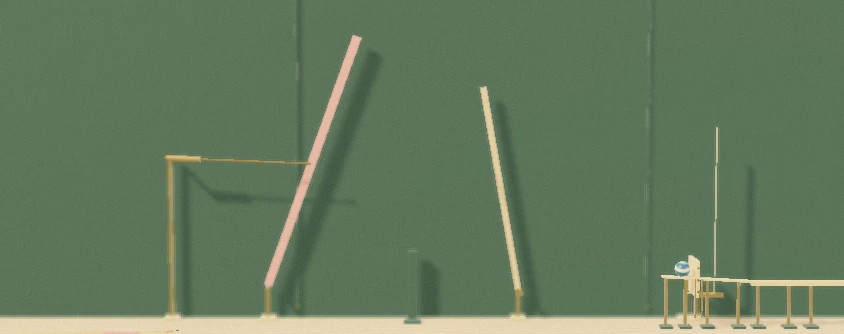
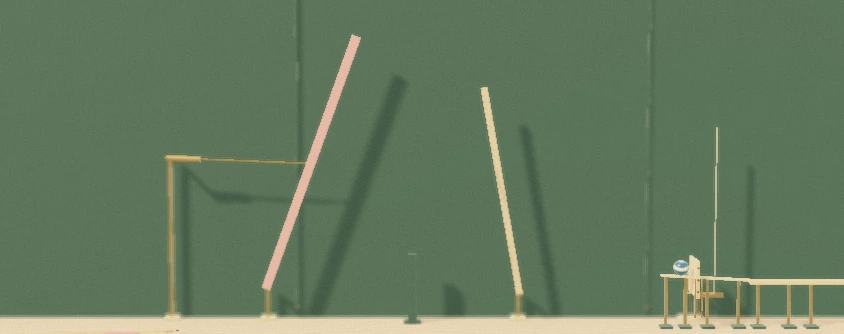
Align Chain Reaction meshes with physical depth

diff --git a/chain-reaction.html b/chain-reaction.html
@@ -8,12 +8,12 @@
 <link rel="stylesheet" href="style.css"><link rel="stylesheet" href="chain-reaction.css?v=0.1.0">
 <script defer src="js/vendor/three-r128.min.js"></script>
 <script defer src="js/chain-reaction-physics.js?v=0.2.0"></script><script defer src="js/chain-reaction-events.js?v=0.1.1"></script>
-<script defer src="js/chain-reaction-materials.js?v=0.1.0"></script><script defer src="js/chain-reaction-renderer.js?v=0.1.2"></script>
+<script defer src="js/chain-reaction-materials.js?v=0.1.0"></script><script defer src="js/chain-reaction-renderer.js?v=0.1.3"></script>
 <script defer src="js/chain-reaction-sound.js?v=0.1.0"></script><script defer src="js/chain-reaction.js?v=0.1.2"></script>
 </head>
 <body>
 <header class="cr-bar"><a href="index.html" class="cr-home">Home</a><span class="cr-caption" id="caption">Chain Reaction</span><button id="about-toggle" aria-expanded="false" aria-controls="about">About</button></header>
-<main class="cr-stage"><canvas id="machine" aria-label="A chain reaction built from maple arms, a hanging tin cup and a wooden wheel." tabindex="0"></canvas><picture class="cr-still" id="still"><source media="(orientation:portrait)" srcset="assets/chain-reaction/stills/portrait.webp?v=0.1.2"><source media="(max-height:600px)" srcset="assets/chain-reaction/stills/landscape.webp?v=0.1.2"><img src="assets/chain-reaction/stills/desktop.webp?v=0.1.2" alt="The armed maple and tin machine on its workbench." loading="eager"></picture><p class="cr-title" id="stage-title">The Long Arm</p><p class="cr-status" id="status" role="status">Preparing the bench.</p><div class="cr-controls"><button id="follow" hidden>Follow</button><button id="pause" aria-pressed="false">Pause</button><button id="sound" aria-pressed="false" hidden>Sound off</button></div><div class="cr-frontier" id="frontier" hidden><p>Three stages built so far.</p><a href="#stage=1" id="restart">Back to the beginning</a></div></main>
+<main class="cr-stage"><canvas id="machine" aria-label="A chain reaction built from maple arms, a hanging tin cup and a wooden wheel." tabindex="0"></canvas><picture class="cr-still" id="still"><source media="(orientation:portrait)" srcset="assets/chain-reaction/stills/portrait.webp?v=0.1.3"><source media="(max-height:600px)" srcset="assets/chain-reaction/stills/landscape.webp?v=0.1.3"><img src="assets/chain-reaction/stills/desktop.webp?v=0.1.3" alt="The armed maple and tin machine on its workbench." loading="eager"></picture><p class="cr-title" id="stage-title">The Long Arm</p><p class="cr-status" id="status" role="status">Preparing the bench.</p><div class="cr-controls"><button id="follow" hidden>Follow</button><button id="pause" aria-pressed="false">Pause</button><button id="sound" aria-pressed="false" hidden>Sound off</button></div><div class="cr-frontier" id="frontier" hidden><p>Three stages built so far.</p><a href="#stage=1" id="restart">Back to the beginning</a></div></main>
 <aside id="about" class="cr-about" hidden><p>A small machine on a long workbench. Each stage uses rigid bodies at real gravity, with its own rails, bearings and latches. Before a stage joins the chain, it runs 200 variations in each direction, plus tests with its triggers held still. Drag to look around, scroll or pinch to pull back, and tap a stage in the wide view to start there.</p><p><a id="share" href="#stage=1">Link to this stage</a><span>Three stages added October 6, 2026.</span></p></aside>
 <noscript><style>.cr-controls{display:none}</style><p class="cr-noscript">The moving machine needs JavaScript.</p></noscript>
 </body></html>

diff --git a/js/chain-reaction-renderer.js b/js/chain-reaction-renderer.js
@@ -17,7 +17,7 @@
  for(let index=0;index<definitions.length;index++){
   const d=definitions[index],group=new T.Group(),map=new Map();group.position.x=offsets[index];scene.add(group);groups.push(group);partMaps.push(map);stateMaps.push(new Map(d.parts.map(p=>[p.id,{...p,angle:p.angle||0}])));
   for(const p of d.parts){if(p.id==='floor')continue;const g=new T.Group();g.position.set(p.x,p.y,p.z??0);g.rotation.z=p.angle||0;group.add(g);map.set(p.id,g);const skin=d.skins.find(s=>s.part===p.id)?.finish;let material=skin==='worn-rose-paint'?mat.paint1:skin==='worn-gold-paint'?mat.paint0:skin==='brushed-brass'?mat.brass:mat.paint;
-   for(const c of p.colliders||[{...p,x:0,y:0,angle:0}]){const depth=c.depth??p.depth??.12;let m;if(c.shape==='ball'){if(p.id.startsWith('marble')){const k='hero';let geo=cache.get(k);if(!geo){geo=new T.SphereGeometry(c.radius,36,24);cache.set(k,geo);}m=new T.Mesh(geo,heroMaterial);g.add(m);m.position.set(c.x||0,c.y||0,c.z||0);m.castShadow=m.receiveShadow=true;}else m=disk(g,c.radius,depth,c.x||0,c.y||0,c.z||0,p.fixed?mat.brass:p.material==='maple'?mat.maple:material);}else m=box(g,c.width,c.height,depth,c.x||0,c.y||0,c.z||0,material,p.material==='maple'&&skin==='oiled-maple');m.rotation.z=c.angle||0;
+   for(const c of p.colliders||[{...p,x:0,y:0,angle:0,z:0}]){const depth=c.depth??p.depth??.12;let m;if(c.shape==='ball'){if(p.id.startsWith('marble')){const k='hero';let geo=cache.get(k);if(!geo){geo=new T.SphereGeometry(c.radius,36,24);cache.set(k,geo);}m=new T.Mesh(geo,heroMaterial);g.add(m);m.position.set(c.x||0,c.y||0,c.z||0);m.castShadow=m.receiveShadow=true;}else m=disk(g,c.radius,depth,c.x||0,c.y||0,c.z||0,p.fixed?mat.brass:p.material==='maple'?mat.maple:material);}else m=box(g,c.width,c.height,depth,c.x||0,c.y||0,c.z||0,material,p.material==='maple'&&skin==='oiled-maple');m.rotation.z=c.angle||0;
     if(p.material==='maple'&&c.shape==='box'&&c.width>.3&&c.height>.3){const front=(c.z||0)+depth/2+.015;for(const sx of [-1,1])screw(g,(c.x||0)+sx*c.width*.30,c.y||0,front,.025,(index+sx)*.7);}
    }
    if(p.id==='ruler'){const h=p.height||p.colliders[0].height,marks=new T.BufferGeometry(),vertices=[];for(let n=1;n<h*8;n++){const y=-h/2+n*.125;vertices.push(-.055,y,(p.depth||.08)/2+.003,-.055+(n%4===0?.07:.033),y,(p.depth||.08)/2+.003);}marks.setAttribute('position',new T.Float32BufferAttribute(vertices,3));g.add(new T.LineSegments(marks,new T.LineBasicMaterial({color:'#76684d'})));}

diff --git a/docs/CHAIN_REACTION.md b/docs/CHAIN_REACTION.md
@@ -394,6 +394,13 @@ paint-before-maple order. The old renderer lost that foot in 330 of 414 visible
 samples; the correction loses none. Maximum bench depth error fell from 2.657 units
 to 0.000589. The color-ID view is test-only. It never alters public materials.
 
+`alignment.mjs` compares the actual rendered collider meshes with their physical
+positions and thicknesses. It covers armed and spent poses, both directions and
+both browsers. Simple parts formerly applied their depth offset twice; compound
+parts applied it once. The correction leaves no mismatches in 288 mesh probes per
+browser, compared with 192 before. This check keeps visible contact surfaces aligned
+with the physics, including mechanisms that mix simple and compound parts.
+
 `storyboard.mjs` steps each canonical stage in Node, checks its stored state hash,
 then renders exact requested ticks in the browser without rAF. It writes twelve
 event frames, half-second timelines, sixteen frames at 30 fps around the payoff
